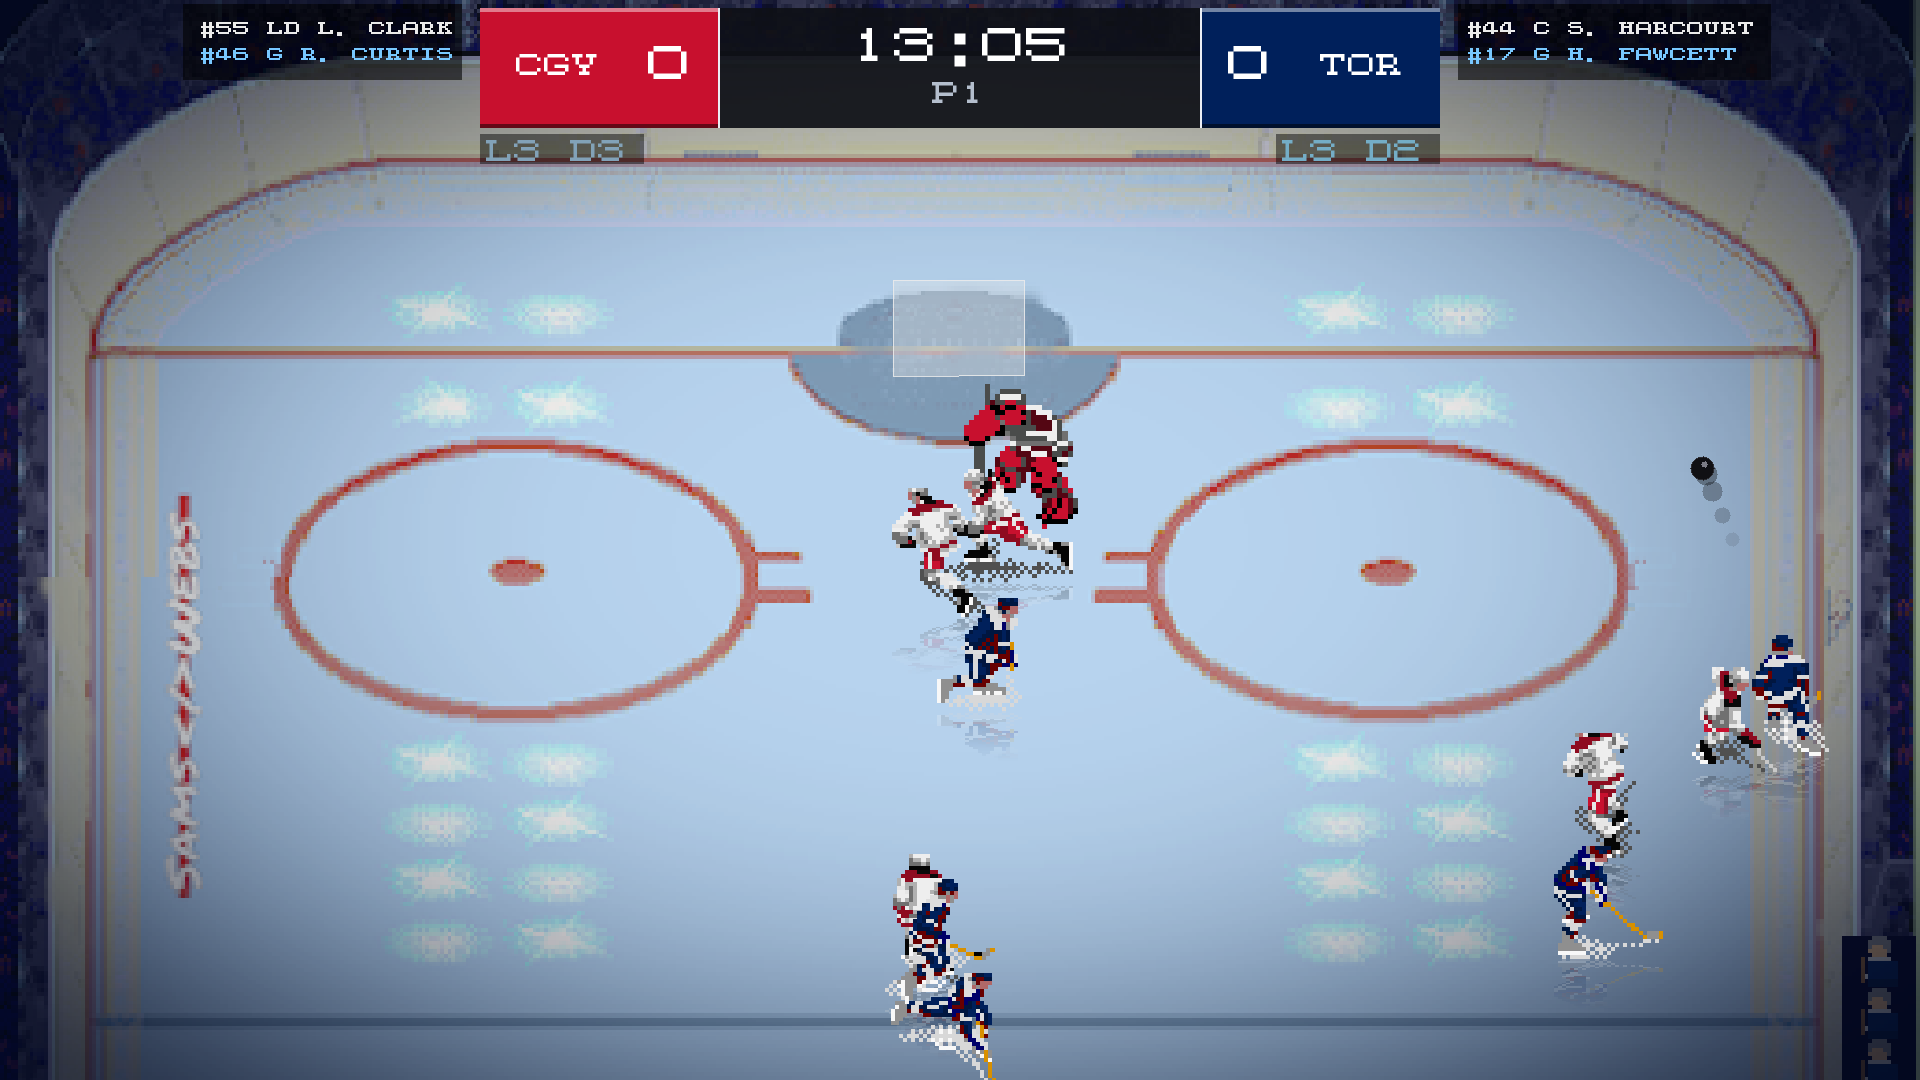
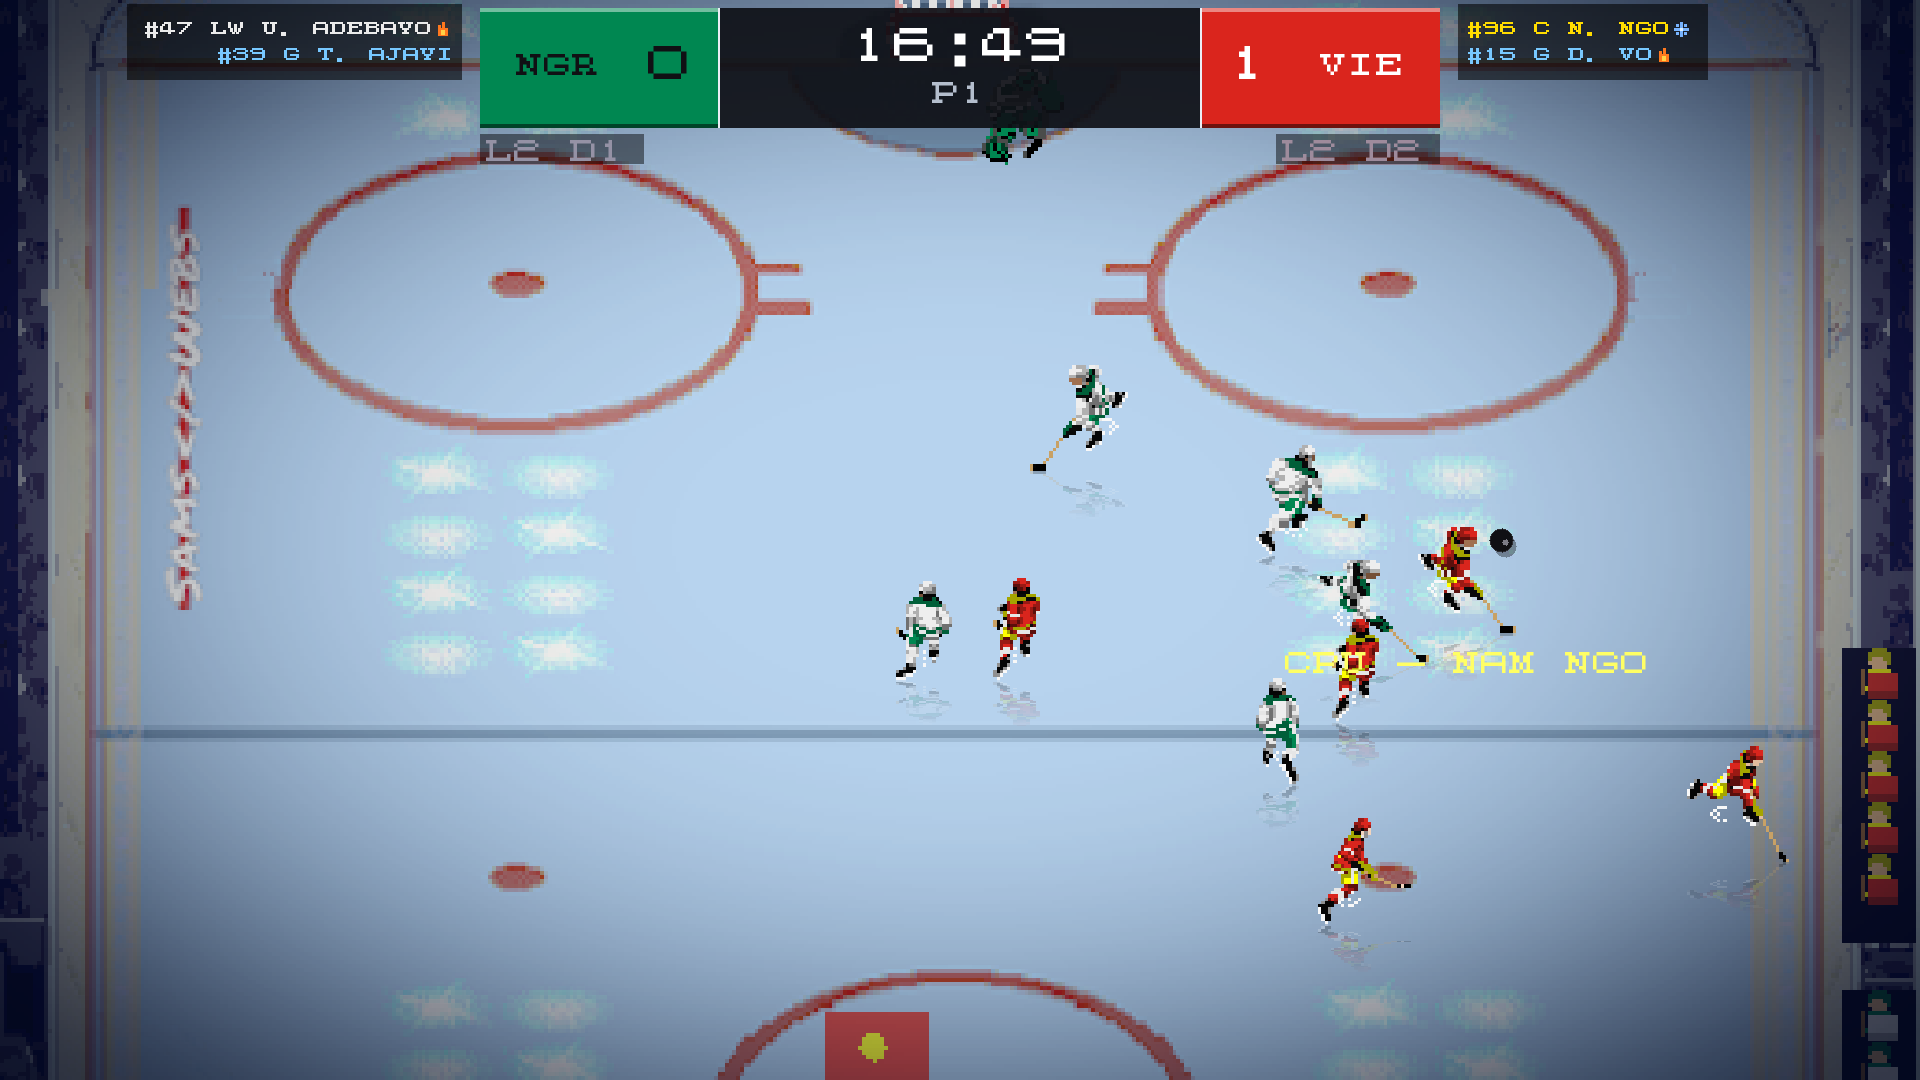
web: point both hero games at itch.io, refresh the hockey shot
Rink Dynasty and Total Futbol now link to their itch.io pages.

The hockey screenshot is replaced with a current one. "Graphics
subject to change" comes off it: that game has shipped, so the
disclaimer no longer applies. It stays on Total Futbol, which has not.

Verified: the new file is still 1920x1080, so the figure's width and
height attributes are correct and the aspect ratio does not shift. The
file is smaller than the one it replaces, 398KB -> 241KB. How it was
produced was not checked.

Note: the alt text on this figure still describes the previous
screenshot (Calgary vs Toronto, 13:05). The new one reads NGR 0 -
16:43 - 1 VIE. That is a follow-up, not folded in here.

diff --git a/web/index.html b/web/index.html
@@ -485,8 +485,7 @@ p { margin: 0; }
             <img src="assets/img/center-ice-hockey.png" width="1920" height="1080" alt="Rink Dynasty: a top-down pixel-art hockey game, Calgary against Toronto, 13:05 left in the first period, players contesting the puck at centre ice.">
           </div>
           <figcaption>
-            Built with Storm! Engine v2, <strong>Rink Dynasty</strong> is out now.
-            <span class="reveal-note">Graphics subject to change.</span>
+            Built with Storm! Engine v2, <strong><a href="https://willsams.itch.io/center-ice-hockey">Rink Dynasty</a></strong> is out now.
           </figcaption>
         </figure>
 
@@ -496,7 +495,7 @@ p { margin: 0; }
             <img src="assets/img/total-futbol.png" width="1282" height="719" alt="Total Futbol: a top-down pixel-art football pitch in mown stripes, the red and blue sides contesting the ball on the centre circle, the HUD reading HOME 0 - 1 AWAY.">
           </div>
           <figcaption>
-            In the works with Storm! Engine v2, <strong><a href="https://samswebs.github.io/total-futbol">Total Futbol</a></strong> is a top-down football game.
+            In the works with Storm! Engine v2, <strong><a href="https://willsams.itch.io/total-futbol">Total Futbol</a></strong> is a top-down football game.
             <span class="reveal-note">Graphics subject to change.</span>
           </figcaption>
         </figure>
